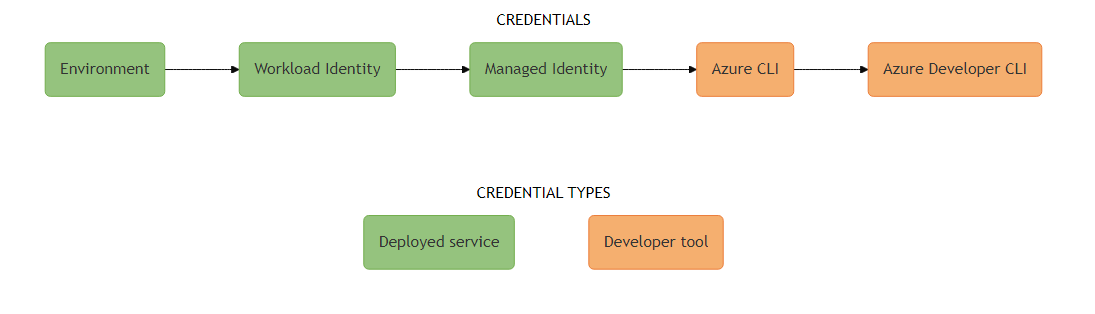
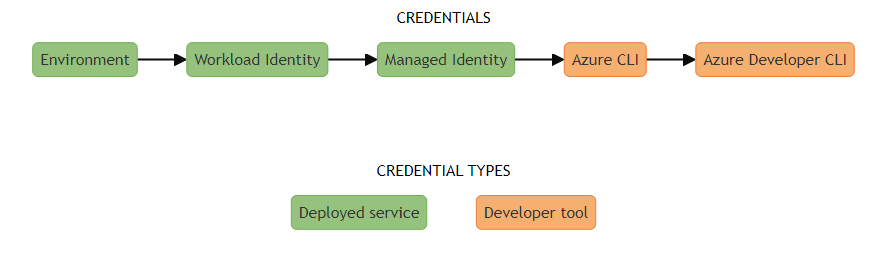
Diagram updates

diff --git a/articles/go/sdk/includes/mermaidjs/default-azure-credential-auth-flow.md b/articles/go/sdk/includes/mermaidjs/default-azure-credential-auth-flow.md
@@ -6,8 +6,8 @@ ms.date: 12/13/2024
 ```mermaid
 %% STEPS TO GENERATE IMAGE
 %% =======================
-%% 1. Install mermaid CLI v11.4.2 (see https://github.com/mermaid-js/mermaid-cli/blob/master/README.md):
-%%    npm i -g @mermaid-js/mermaid-cli@11.4.2
+%% 1. Install mermaid CLI v10.9.1 (see https://github.com/mermaid-js/mermaid-cli/blob/master/README.md):
+%%    npm i -g @mermaid-js/mermaid-cli@10.9.1
 %% 2. Run commands:
 %%    mmdc -i default-azure-credential-auth-flow.md -o ../../media/mermaidjs/default-azure-credential-auth-flow-inline.svg
 %%    mmdc -i default-azure-credential-auth-flow.md -o ../../media/mermaidjs/default-azure-credential-auth-flow-expanded.png -w 1156

diff --git a/articles/go/sdk/includes/mermaidjs/chained-token-credential-auth-flow.md b/articles/go/sdk/includes/mermaidjs/chained-token-credential-auth-flow.md
@@ -6,8 +6,8 @@ ms.date: 12/13/2024
 ```mermaid
 %% STEPS TO GENERATE IMAGE
 %% =======================
-%% 1. Install mermaid CLI v11.4.2 (see https://github.com/mermaid-js/mermaid-cli/blob/master/README.md):
-%%    npm i -g @mermaid-js/mermaid-cli@11.4.2
+%% 1. Install mermaid CLI v10.9.1 (see https://github.com/mermaid-js/mermaid-cli/blob/master/README.md):
+%%    npm i -g @mermaid-js/mermaid-cli@10.9.1
 %% 2. Run command: mmdc -i chained-token-credential-auth-flow.md -o ../../media/mermaidjs/chained-token-credential-auth-flow.svg
 
 %%{

diff --git a/articles/go/sdk/includes/mermaidjs/chain-sequence.md b/articles/go/sdk/includes/mermaidjs/chain-sequence.md
@@ -6,8 +6,8 @@ ms.date: 12/13/2024
 ```mermaid
 %% STEPS TO GENERATE IMAGE
 %% =======================
-%% 1. Install mermaid CLI v11.4.2 (see https://github.com/mermaid-js/mermaid-cli/blob/master/README.md):
-%%    npm i -g @mermaid-js/mermaid-cli@11.4.2
+%% 1. Install mermaid CLI v10.9.1 (see https://github.com/mermaid-js/mermaid-cli/blob/master/README.md):
+%%    npm i -g @mermaid-js/mermaid-cli@10.9.1
 %% 2. Run command: mmdc -i chain-sequence.md -o ../../media/mermaidjs/chain-sequence.svg
 
 sequenceDiagram
